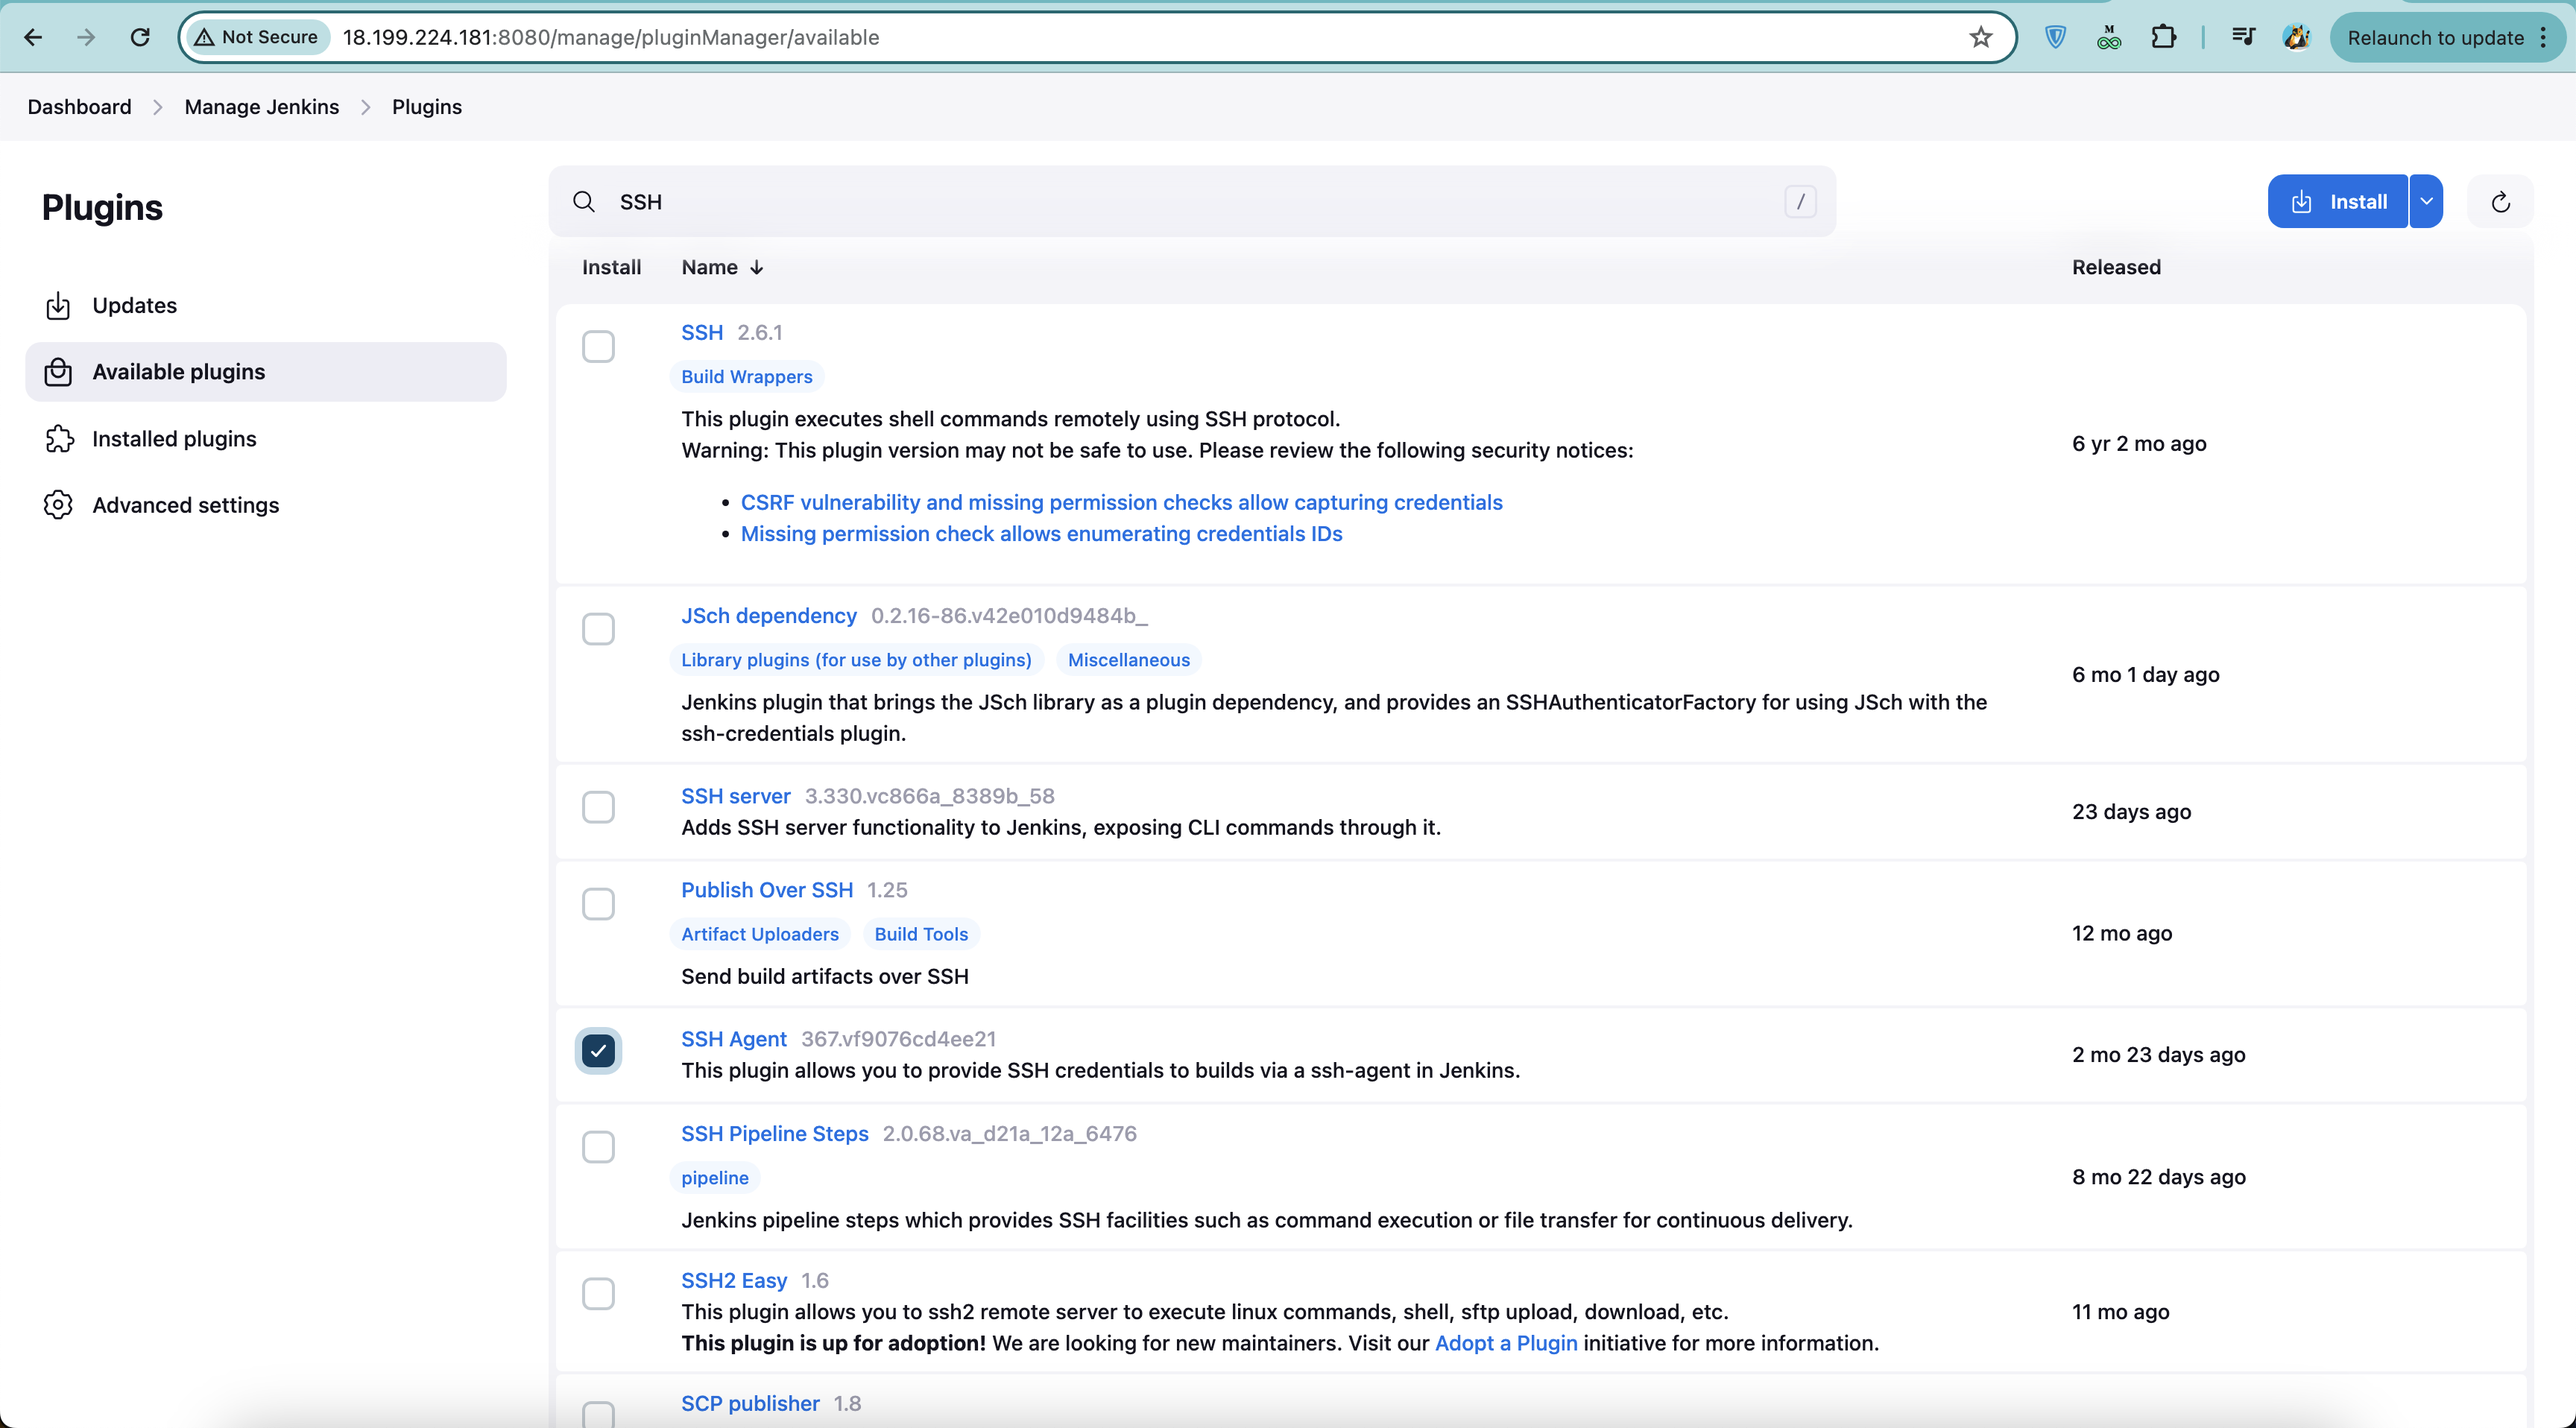
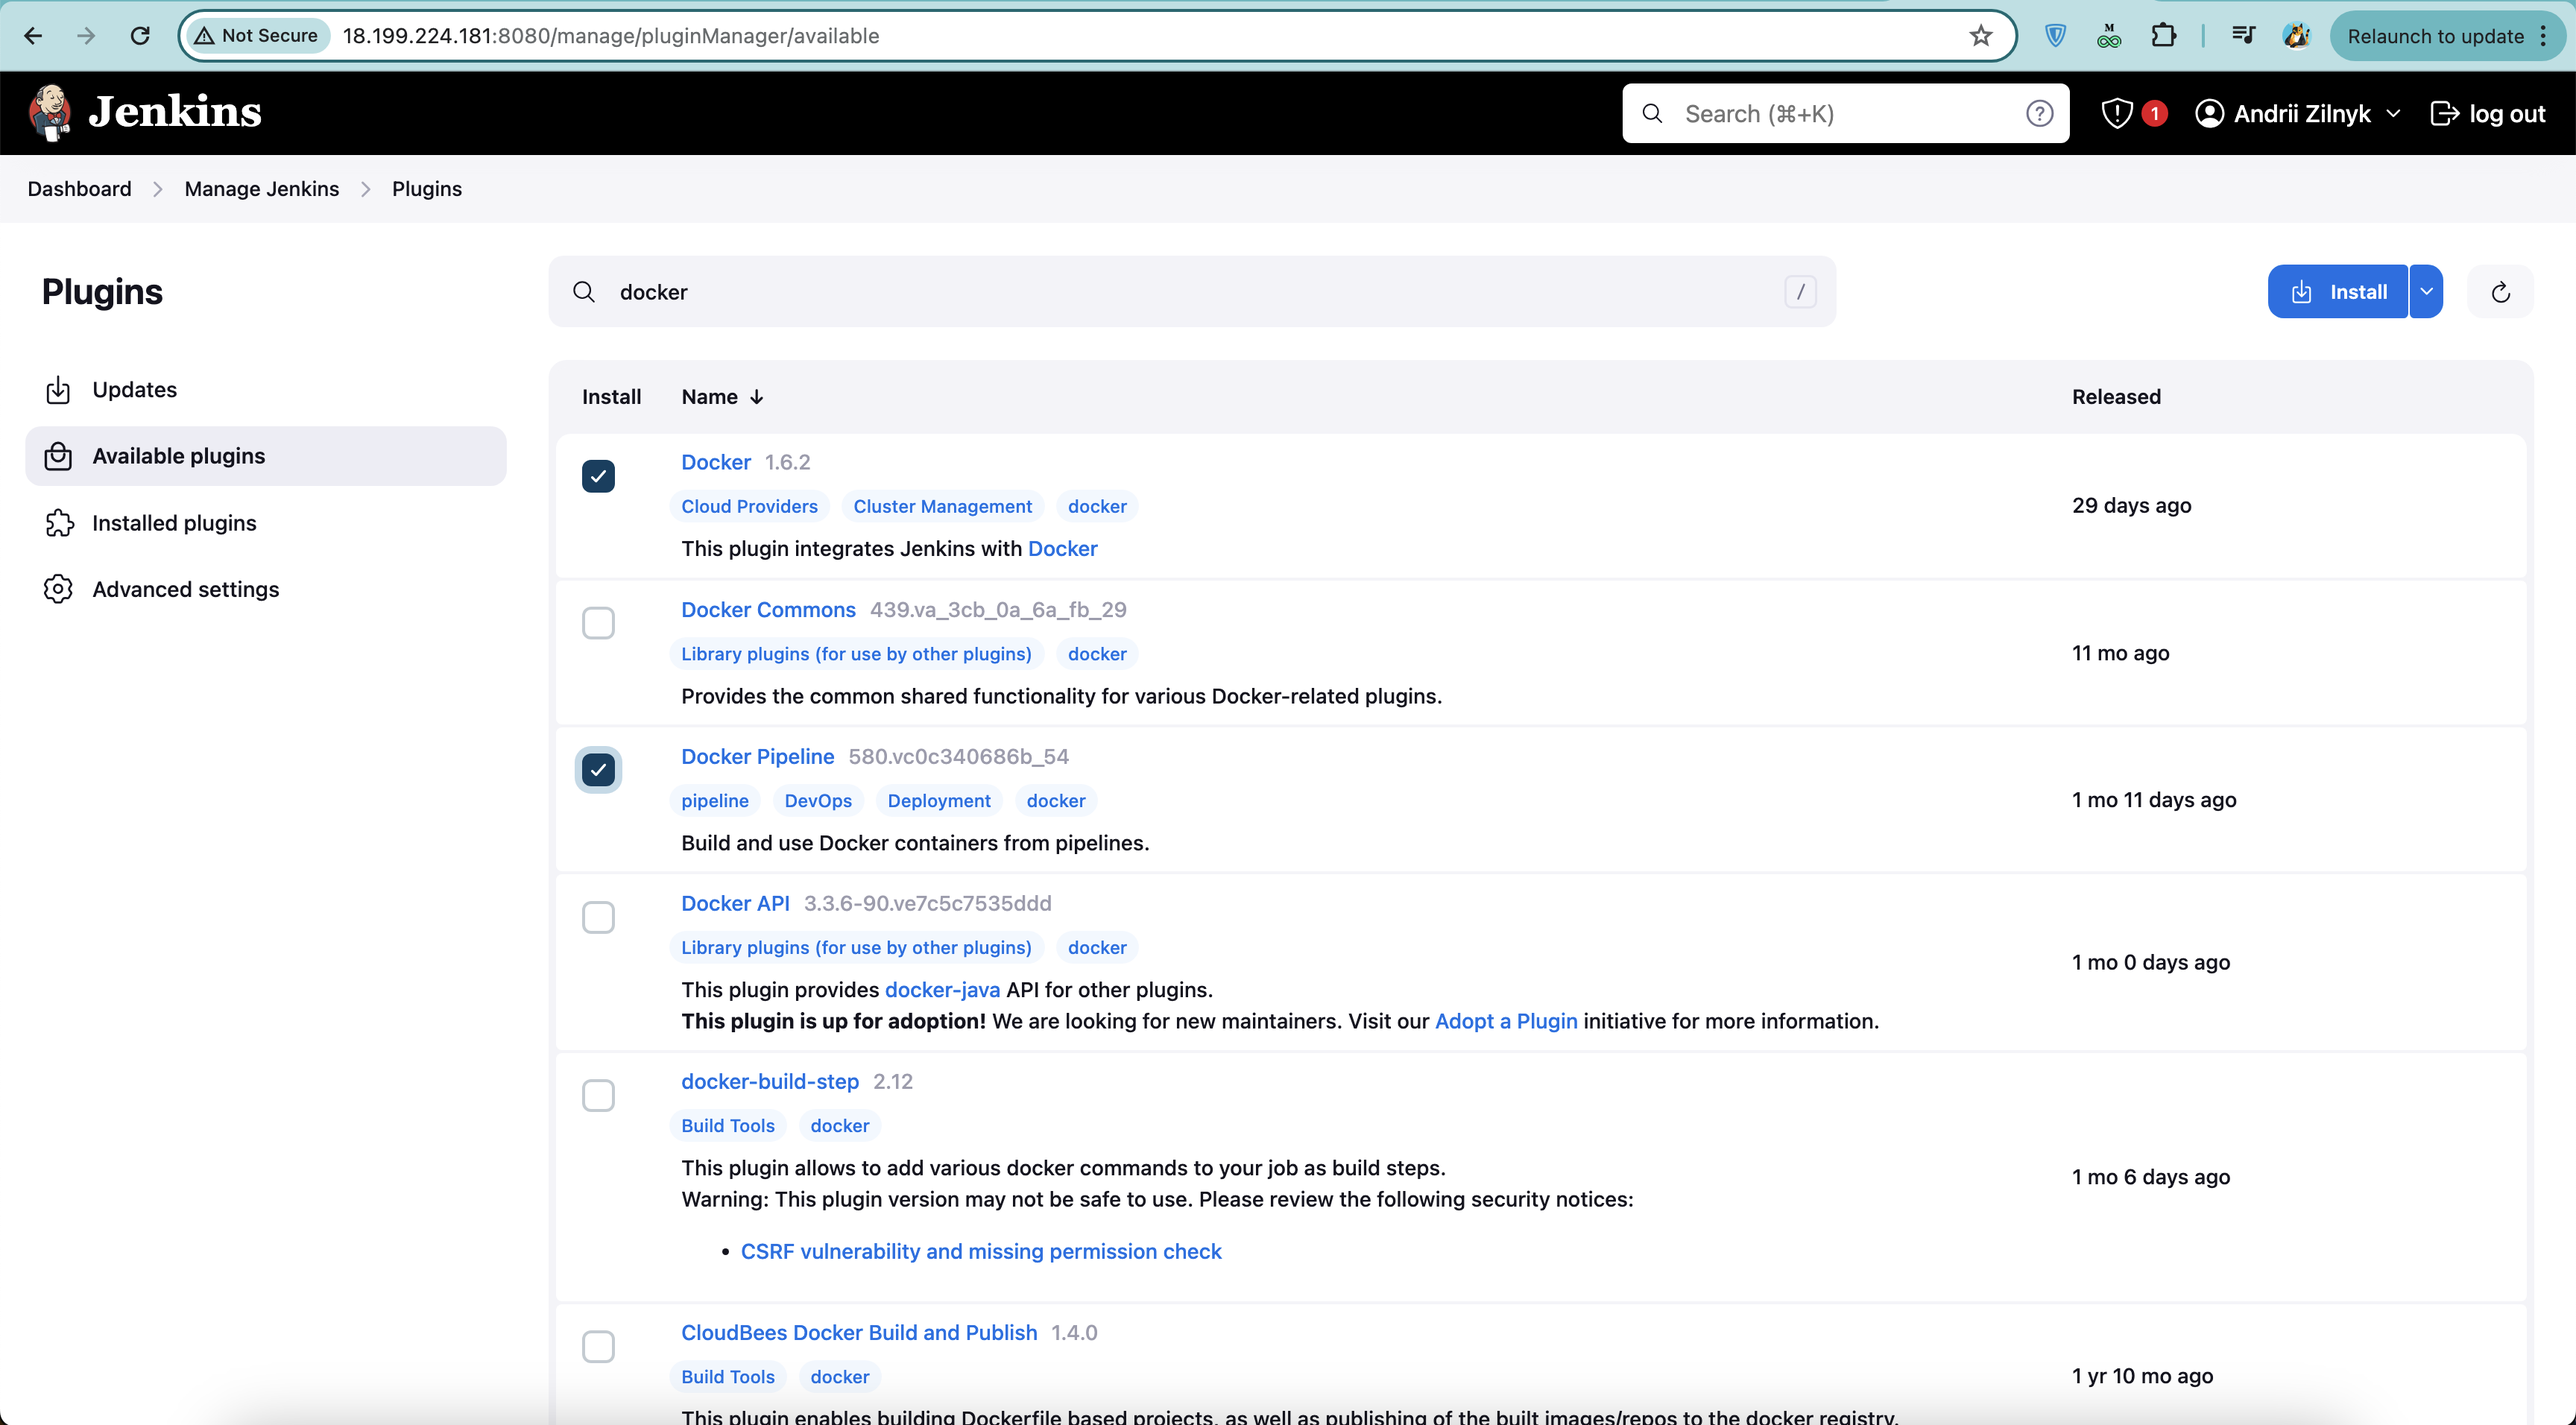
added docker & ssh screen

diff --git a/02.07.2024/README.md b/02.07.2024/README.md
@@ -27,7 +27,8 @@
 PORT on Security Group
 2. Generate `ssh keys` on the Jenkins machine and add `public key` to the `known_hosts` of NodeJS machine
 3. Install Docker on the NodeJS machine
-4. On Jenkins machine add private key to the `Manage Jenkins > Credentials`. Install `SSH Agent` plugin `Manage Jenkins > Plugins`.
+4. On Jenkins machine add private key to the `Manage Jenkins > Credentials`. Install `SSH Agent` plugin `Manage Jenkins > Plugins`
+& Docker Plugin.
 Add `private key` to the `Manage Jenkins > Credentials > System > Global Credentials`. Add id from the credentials to the `ssh agent`
 in pipeline
 5. Install Docker on Jenkins Server
